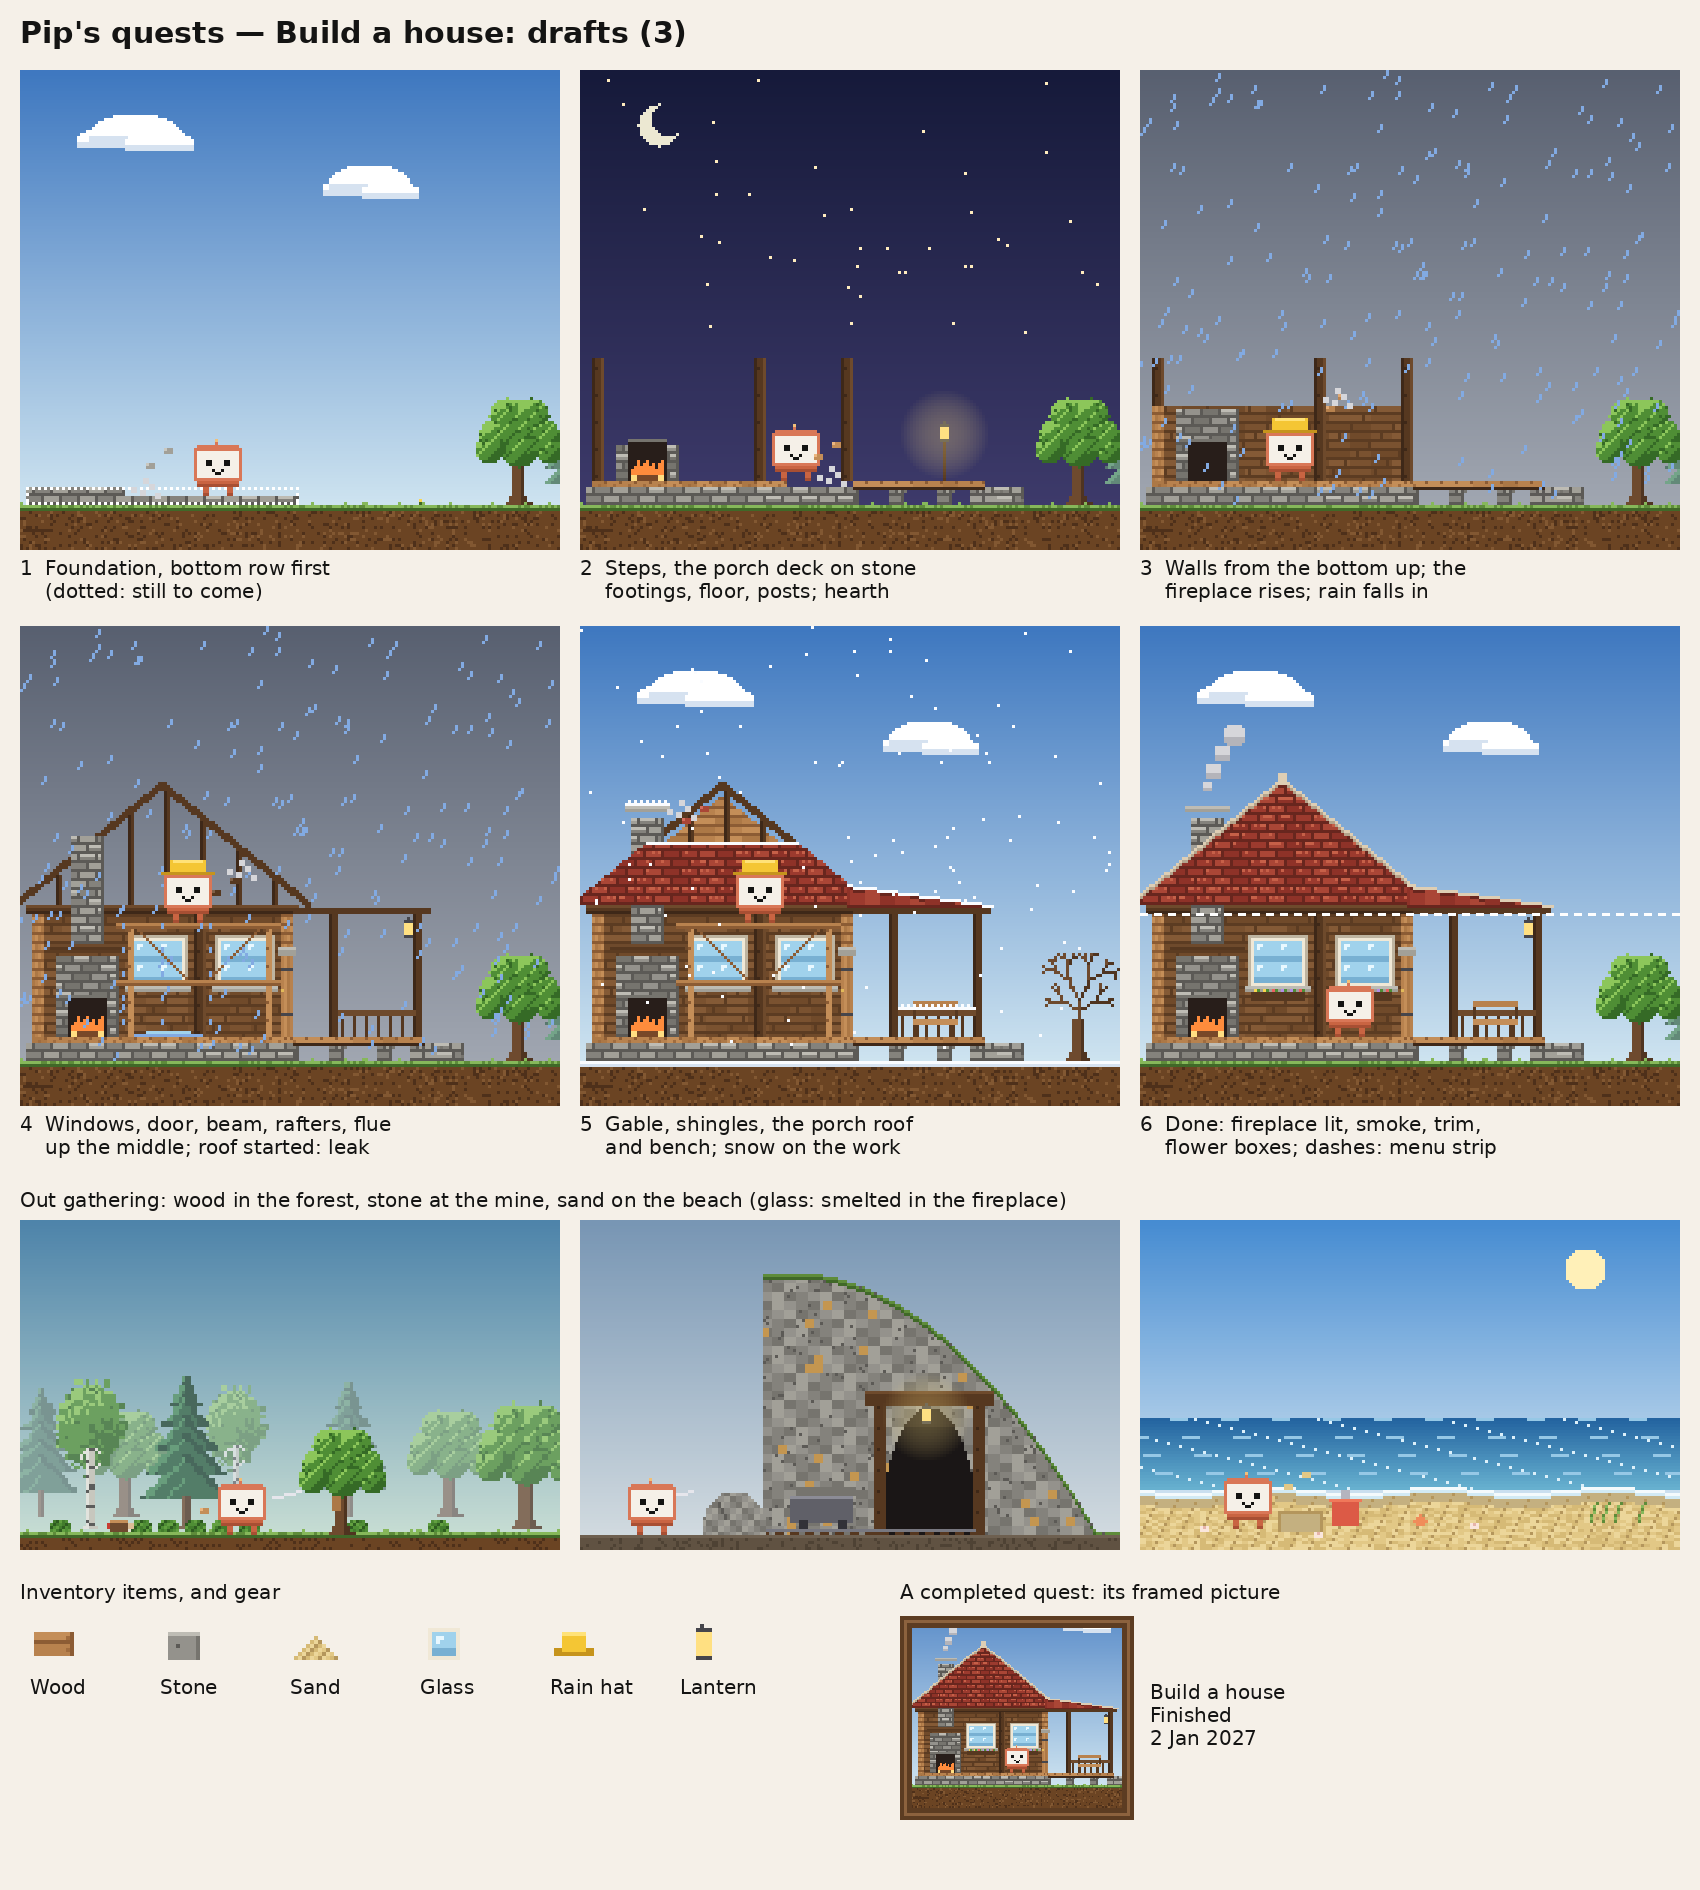
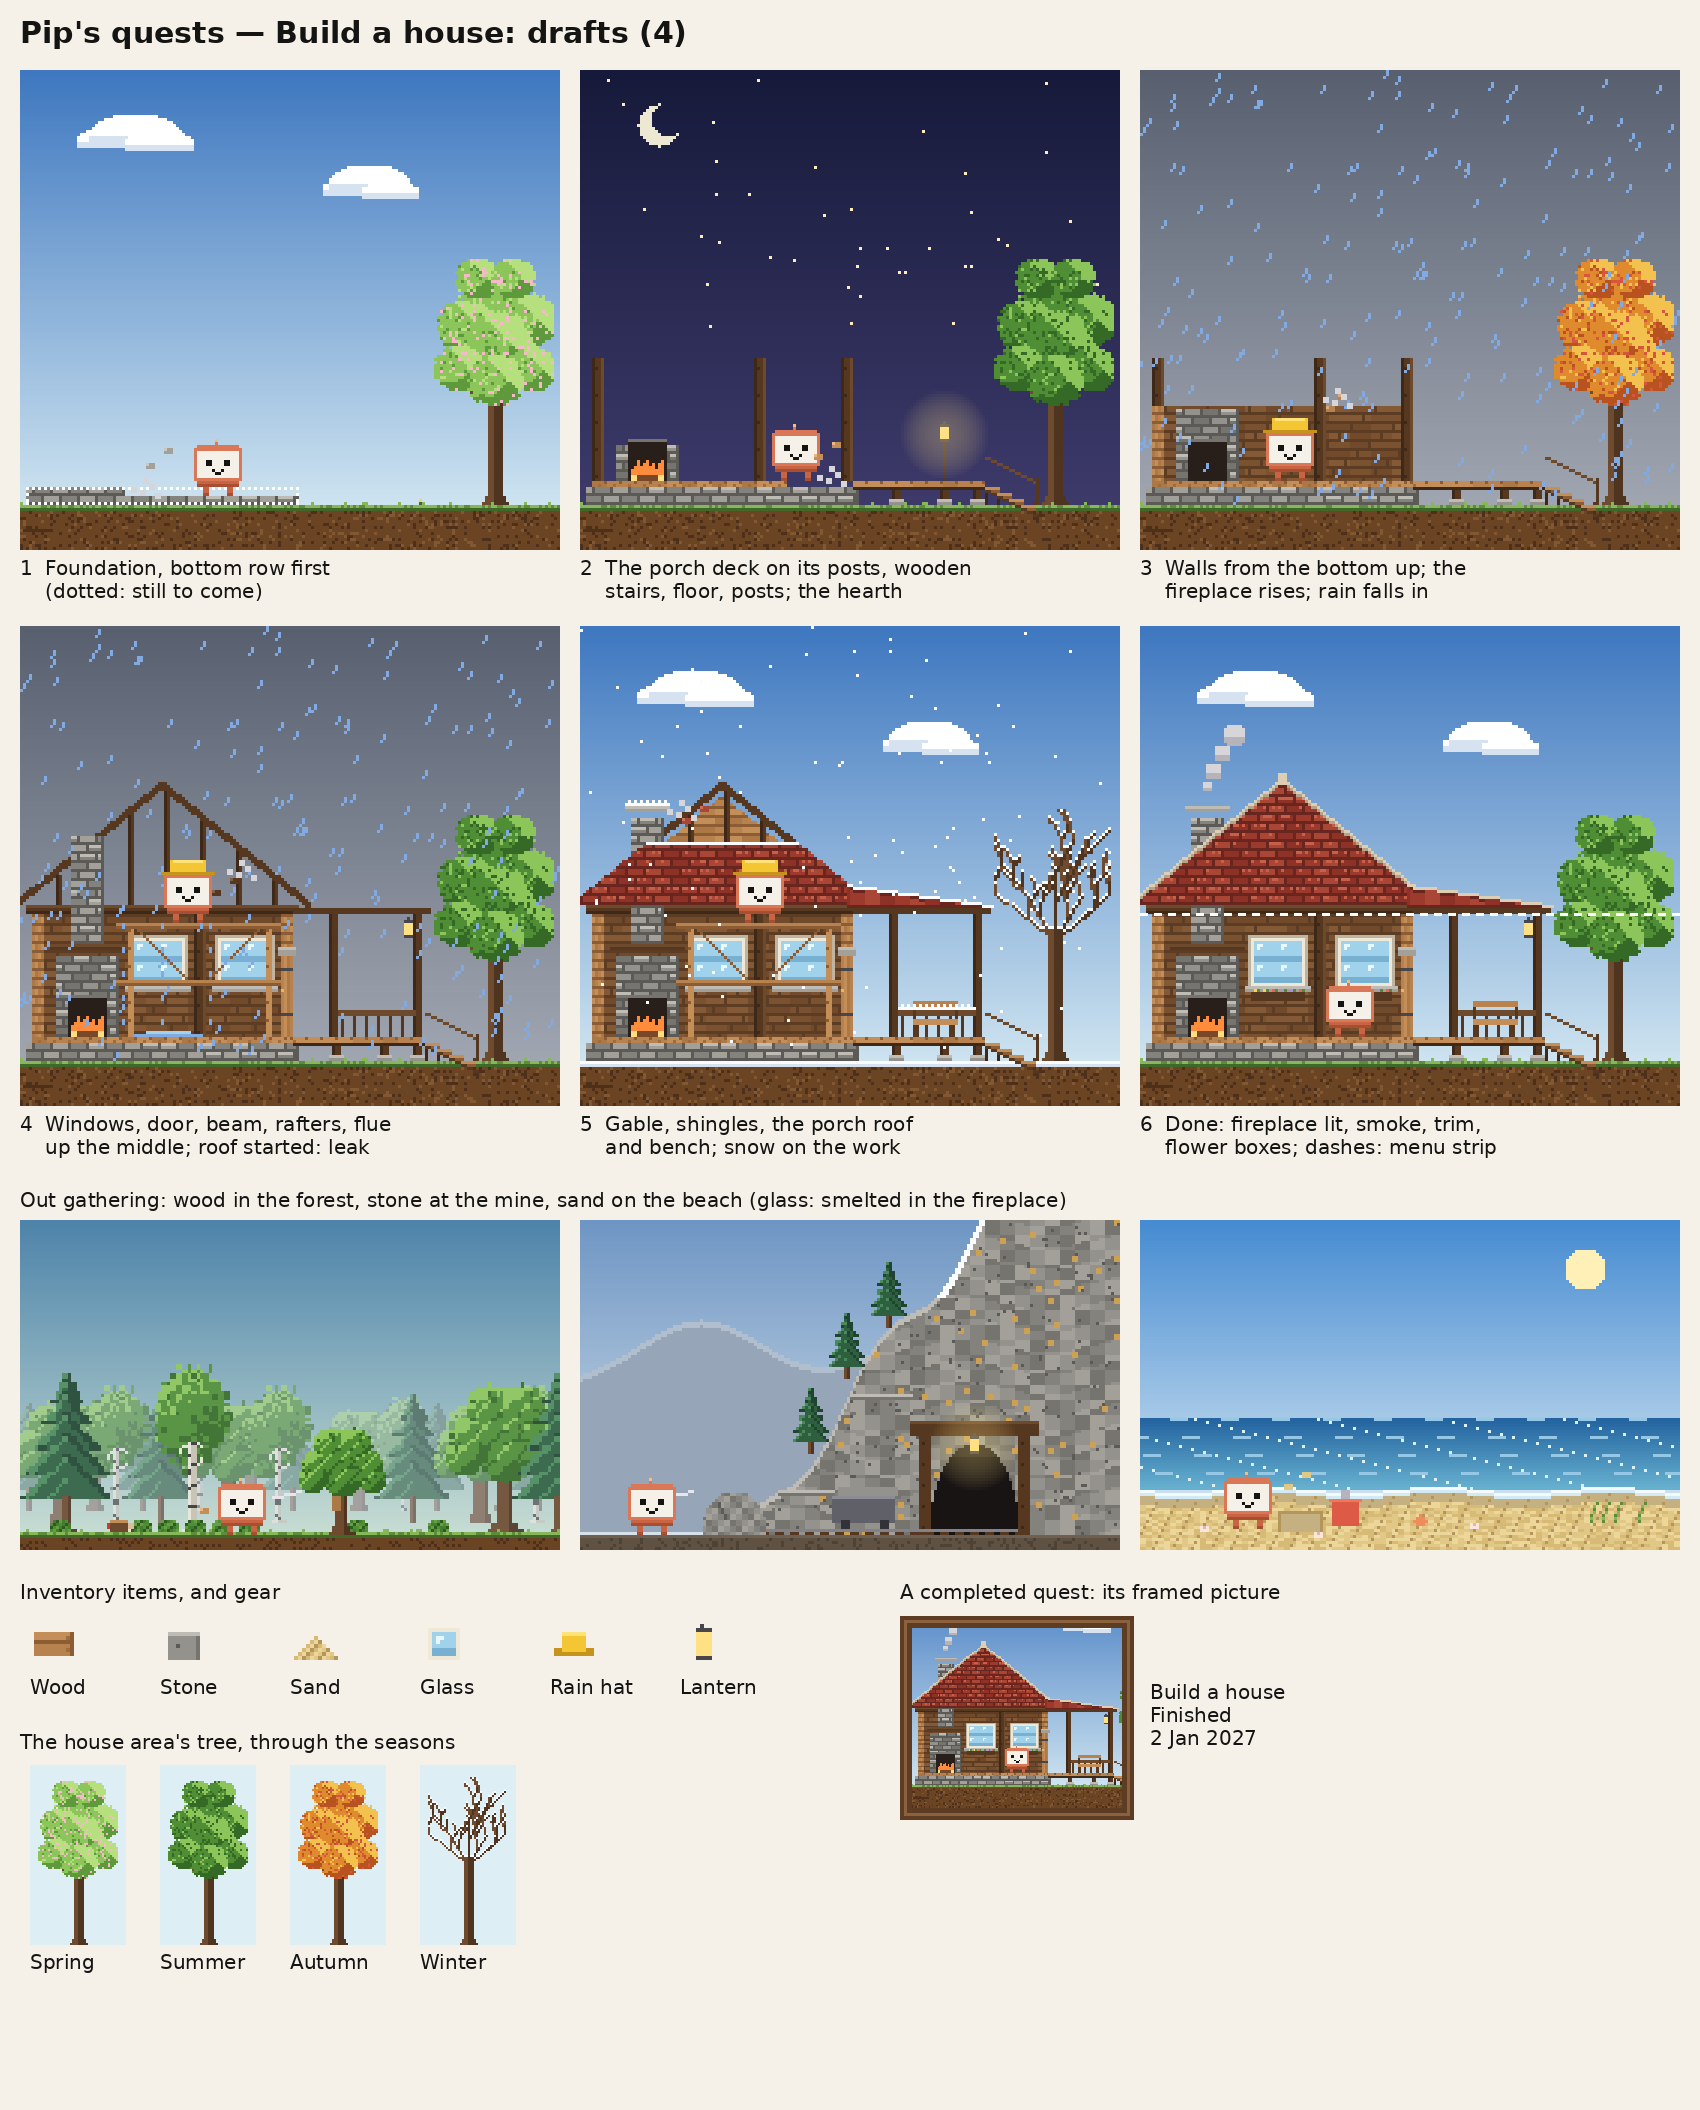
Pip's quests: tall seasonal tree, wooden stairs, denser forest, mountain mine

diff --git a/docs/QUESTS_SPEC.md b/docs/QUESTS_SPEC.md
@@ -1,6 +1,6 @@
 # Pip's quests — spec (Round 121)
 
-Written in Round 121, after v2.0.0; Round 122: the house drawn again, more detailed, nothing floating; Round 123: the fireplace inside, a larger porch, his field's tree, the forest, the mine and the beach. The first quest is **Build a house**:
+Written in Round 121, after v2.0.0; Round 122: the house drawn again, more detailed, nothing floating; Round 123: the fireplace inside, a larger porch, the forest, the mine and the beach; Round 124: the house area's own tall tree, wooden stairs, a denser forest, the mine in a mountain. The first quest is **Build a house**:
 Pip gathers wood, stone and sand, makes glass, and builds a house piece by
 piece over about two months, during two set hours a day. The house then
 becomes where he lives. **Requested** marks what was asked for,
@@ -88,8 +88,8 @@ what's still open is in section 13. Drafts: `docs/pip_house_drafts.png`.
 
 | Material | Where | How (animation) |
 |---|---|---|
-| **Wood** | **The forest** (Round 123): oaks, birches and pines as on his field, bushes, ferns, mushrooms, old stumps | He walks out, the ground scrolling, into the forest. He strikes a tree with his sword until it creaks and falls; it breaks into logs that fly to him and drop into his inventory, leaving a stump. A tree gives 4 wood. |
-| **Stone** | **The mine** (Round 123): a rocky hillside with ore glints, a timber-framed mouth with a lantern, rails and a cart | The same walk; he strikes a boulder by the mine until a block cracks off, chips flying; the block flies to him. |
+| **Wood** | **The forest** (Round 123; Round 124: denser, three layers of trees, the far ones hazy): oaks, birches and pines as on his field, bushes, ferns, mushrooms, old stumps | He walks out, the ground scrolling, into the forest. He strikes a tree with his sword until it creaks and falls; it breaks into logs that fly to him and drop into his inventory, leaving a stump. A tree gives 4 wood. |
+| **Stone** | **The mine** (Round 124): **a mountain** rising up the right of the screen and off its top (rock in bands, ore glints, ledges, pines on its slope, snow up high, hazy peaks behind), a timber-framed mouth at its foot with a lantern, rails and a cart | The same walk; he strikes a boulder by the mine until a block cracks off, chips flying; the block flies to him. |
 | **Sand** | **The beach** (Round 123): the sea to the horizon, waves foaming onto wet sand, shells, a starfish, beach grass, his bucket | He digs; sand flies to him in little heaps. |
 | **Glass** | His **fireplace**, in the house | Two sand and a wood (the fire) go into a crucible in the fire; it glows; a pane comes out. |
 
@@ -105,8 +105,10 @@ what's still open is in section 13. Drafts: `docs/pip_house_drafts.png`.
 
 - **Requested:** the house is on **its own screen**, his **house area**
   (the background always the same, **one tree**: **Requested (Round
-  123):** one of his field's own trees, drawn as they are, with the
-  seasons), the house **big**, on
+  124):** a **tree of its own**, taller than the field's (the house is
+  big), in the field trees' style and colours, **following the
+  seasons**: blossom in spring, green in summer, orange in autumn, bare
+  with snow on its branches in winter), the house **big**, on
   the **left** of it. **Requested:** he leaves the house area by its
   **right edge** and appears on the field (section 7).
 - **Requested:** so big that the **menu's strip can't show it all**:
@@ -126,11 +128,14 @@ what's still open is in section 13. Drafts: `docs/pip_house_drafts.png`.
   lintel, a porch with a railing, eaves with trim, a gable with a round
   attic window, flower boxes. **Round 123:** no stone along the outside
   wall: the chimney is the fireplace's flue, inside, up through the
-  roof; and **a larger porch** (a deck on stone footings, its own roof
-  on two posts, a railing, a bench, the lantern).
+  roof; and **a larger porch** (a deck, its own roof on two posts, a
+  railing, a bench, the lantern). **Round 124:** the deck stands on
+  wooden posts on small stone pads, and **wooden stairs** (treads, a
+  stringer, a handrail) go down from it, no stone slab.
 - **The order (decided, Round 122):**
   1. **Stone foundation**, block by block, the bottom row first.
-  2. **Stone steps**, the **porch's stone footings** and its **deck**.
+  2. The **porch's posts** (on stone pads), its **deck** and the **wooden
+     stairs** down from it.
   3. **Wooden floor**, plank by plank.
   4. **The fireplace's hearth** (stone), on the foundation.
   5. (the hearth is ready: from here glass can be smelted)

diff --git a/docs/ROADMAP.md b/docs/ROADMAP.md
@@ -353,6 +353,9 @@ fixtures for every stored format.
   the glass, its flue through the roof; a larger porch (deck, roof,
   bench); the house area's tree is his field's own; wood from a forest,
   stone from a mine, sand from a beach.
+- [x] Round 124: the house area's own tall tree, by season; wooden
+  stairs and porch posts (no stone slab); a denser forest; the mine in
+  a mountain on the right.
 - [ ] The spec and drafts approved; then the rules round.
 
 ### Round 120 — v2.0.0 (2026-10-29, 2.0.0)
